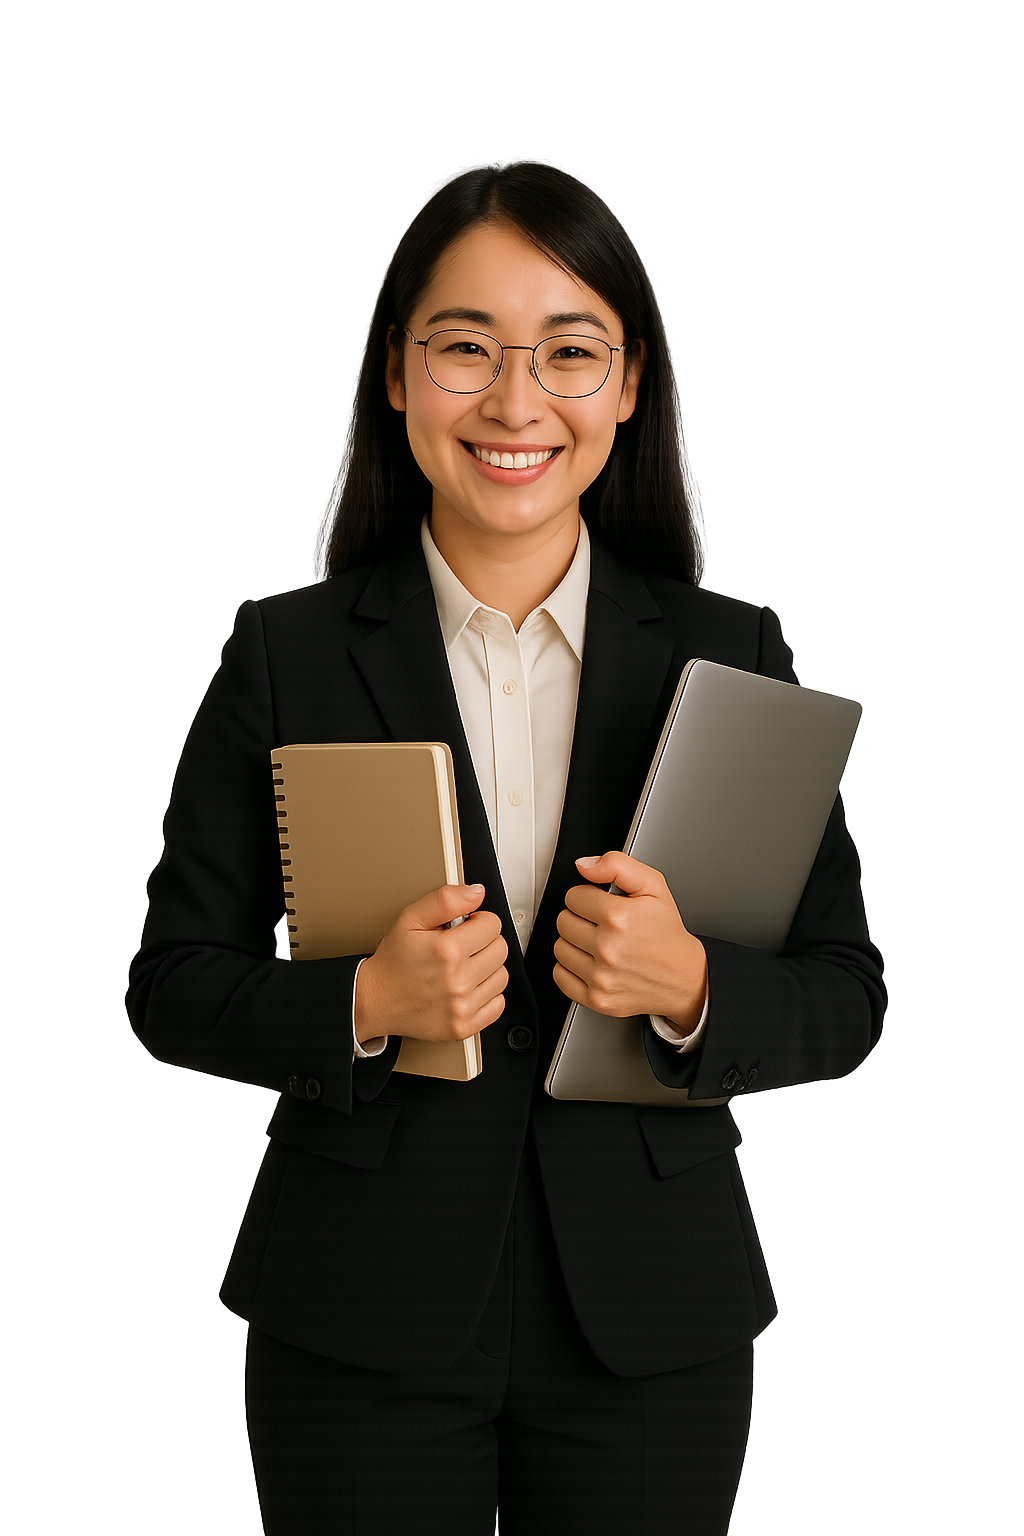
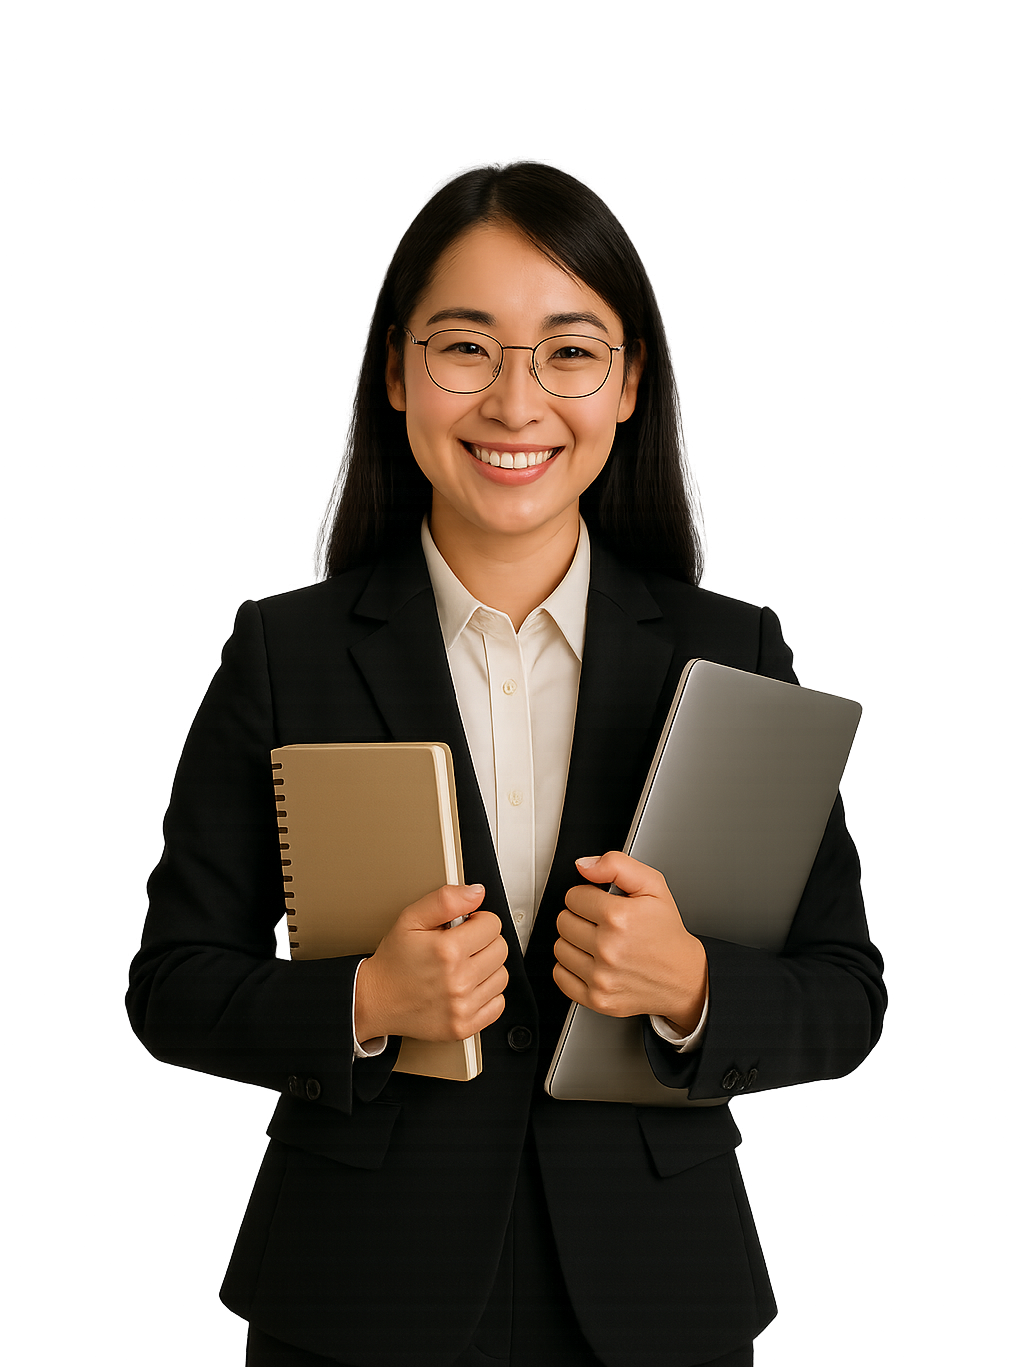
try 1

Changed region(s): [[0.125, 0.0922, 0.875, 1.0]]

diff --git a/css/main_intro.css b/css/main_intro.css
@@ -3,7 +3,7 @@
     position: relative;
     overflow: hidden;
     margin-top: 50px;
-    height: 800px; /* PC view height */
+    height: 775px; /* PC view height */
 }
 
 /* Container and Row */
@@ -151,22 +151,31 @@
 
 @media (max-width: 576px) {
     .unique-intro9-section {
-        padding: 20px 0; /* Further reduce padding for mobile */
+        height: 700px; /* Remove fixed height for better responsiveness */
+        padding: 60px 0 30px; /* More top padding to push down content */
+        text-align: center;
+        position: relative;
+        overflow: hidden;
+    }
+
+    .unique-intro9-content {
+        margin-top: 30px; /* Push content lower */
+        padding: 0 15px;
     }
 
     .unique-intro9-section .unique-title {
         font-size: 24px;
-        margin-bottom: 15px; /* Reduce margin to close gap */
+        margin-bottom: 15px;
     }
 
     .unique-intro9-section .unique-sub-title {
         font-size: 16px;
-        margin-bottom: 10px; /* Reduce margin to close gap */
+        margin-bottom: 10px;
     }
 
     .unique-intro9-section .unique-desc p {
         font-size: 14px;
-        margin-bottom: 20px; /* Reduce margin to close gap */
+        margin-bottom: 20px;
     }
 
     .unique-intro9-section .unique-btn {
@@ -174,41 +183,46 @@
         font-size: 14px;
     }
 
-    .unique-intro9-section .unique-worldRotate {
-        width: 300px;
-        height: 300px;
-    }
-
-    .unique-intro9-section .unique-inner-img-two img {
-        max-width: 80%; /* Reduce image size for mobile */
-    }
-
-    .unique-intro9-section .unique-row {
-        gap: 10px; /* Further reduce gap between text and image in mobile */
-    }
-
-    /* Ensure Intro 2 has no margin-bottom */
-    .unique-intro9-section .unique-intro9-image-wrap {
-        margin-bottom: 0 !important; /* Force no margin-bottom for Intro 2 */
-    }
-
-    /* Fix for ITF company name on mobile */
     #semi {
-        font-size: 36px; /* Reduce font size to fit on one line */
-        white-space: nowrap; /* Prevent line break */
-        line-height: 1; /* Reduce line height to match smaller font */
+        font-size: 36px;
+        white-space: nowrap;
+        line-height: 1.2;
     }
 
     #semi #ee {
-        color: #ffffff; /* Set color to white for "へ" on mobile */
-        background: rgba(255, 255, 255, 0.2); /* Subtle background to make it pop */
-        padding: 2px 6px; /* Small padding for background */
-        border-radius: 5px; /* Rounded background */
-        font-weight: bold; /* Make it stand out */
-        transform: rotate(-10deg); /* Slight tilt for a playful effect */
-        display: inline-block; /* Ensure transform works correctly */
+        color: #ffffff;
+        background: rgba(255, 255, 255, 0.2);
+        padding: 2px 6px;
+        border-radius: 5px;
+        font-weight: bold;
+        transform: rotate(-10deg);
+        display: inline-block;
+    }
+
+    .unique-intro9-section .unique-inner-img-two {
+        transform-origin: bottom center;
+        margin-top: 20px;
+        margin-bottom: -20px; /* Pull up the bottom space */
+    }
+
+    .unique-intro9-section .unique-inner-img-two img {
+        max-width: 85%;
+        height: auto;
+        display: block;
+        margin: 0 auto;
+    }
+
+    .unique-intro9-section .unique-worldRotate {
+        width: 280px;
+        height: 280px;
+    }
+
+    .unique-intro9-section .unique-row {
+        gap: 10px;
     }
 }
+
+
 /* ---------------------------------------------------------------------------------------------------------------___________________________________________________________ */
 
 /* Shortcut Links Styling */

diff --git a/index.html b/index.html
@@ -174,7 +174,7 @@
                             </div>
                         </div>
                         <!-- Intro One Content End -->
-                        <!-- Intro One Course Start -->
+                        <!-- Intro two Course Start -->
                         <div class="unique-col-lg-6 col-md-6" data-aos="fade-up">
                             <div class="unique-intro9-image-wrap">
                                 <div class="unique-intro9-image">
@@ -187,7 +187,7 @@
                                 </div>
                             </div>
                         </div>
-                        <!-- Intro One Course End -->
+                        <!-- Intro two Course End -->
                     </div>
                 </div>
             </div>
